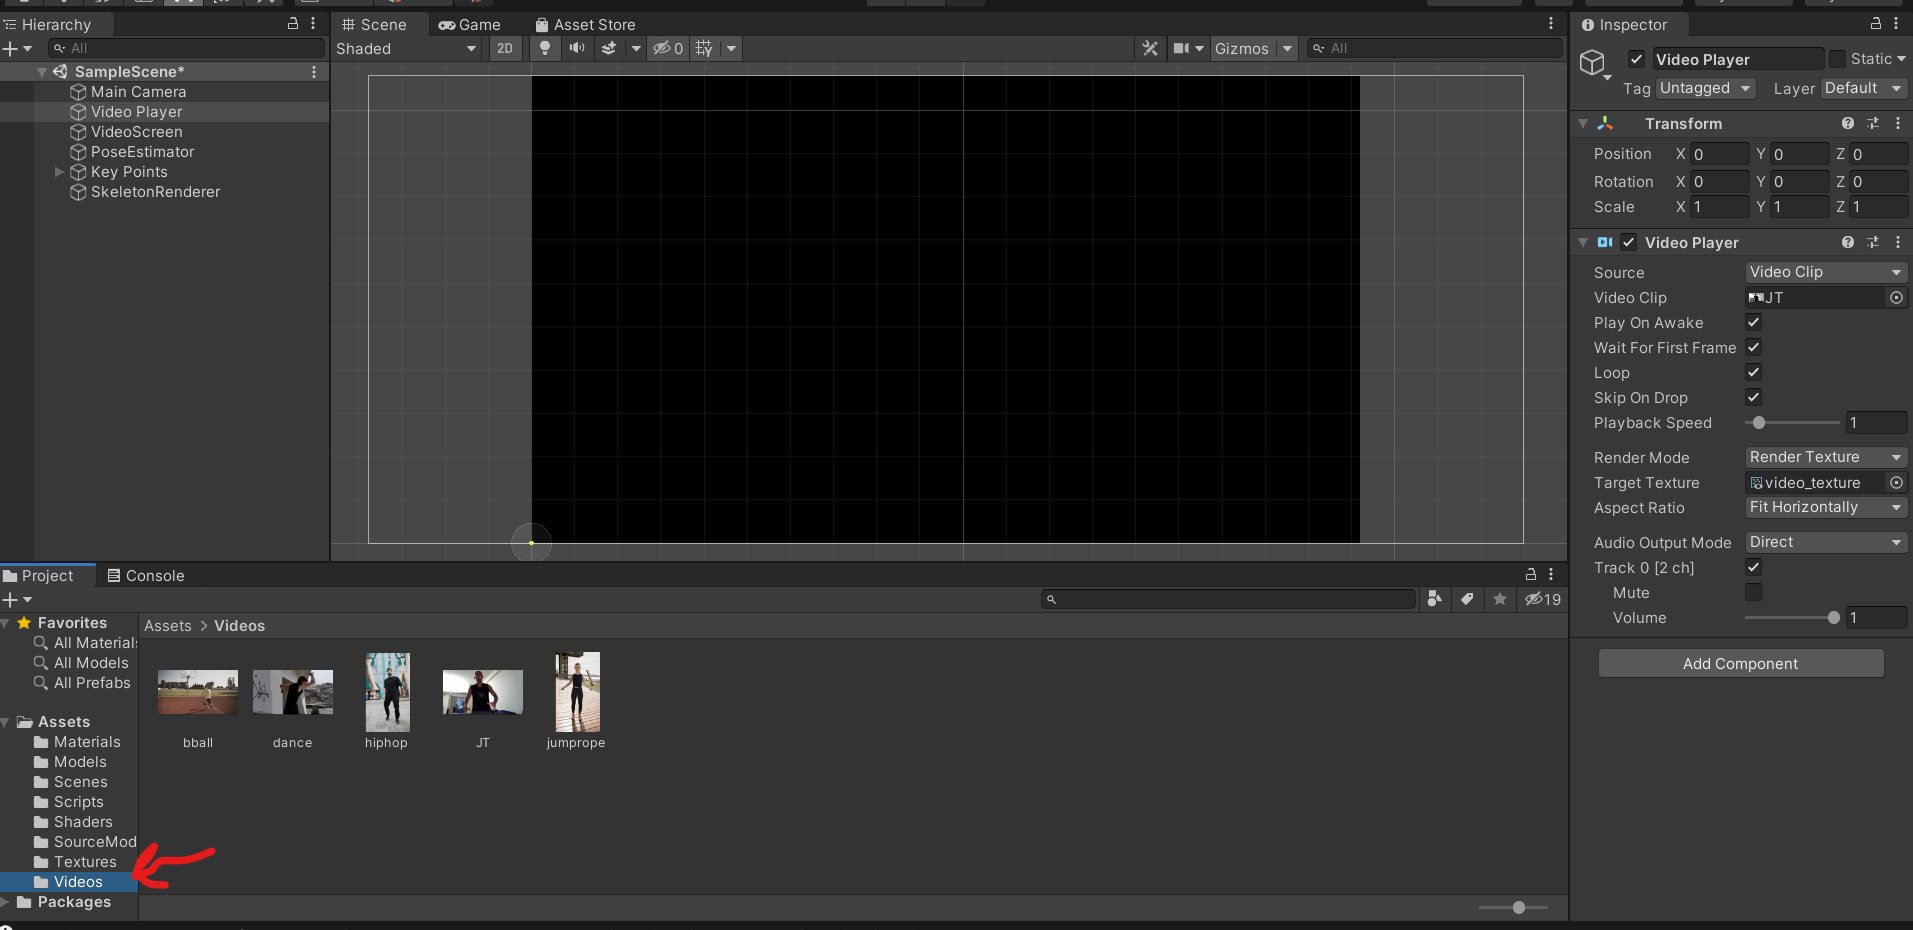
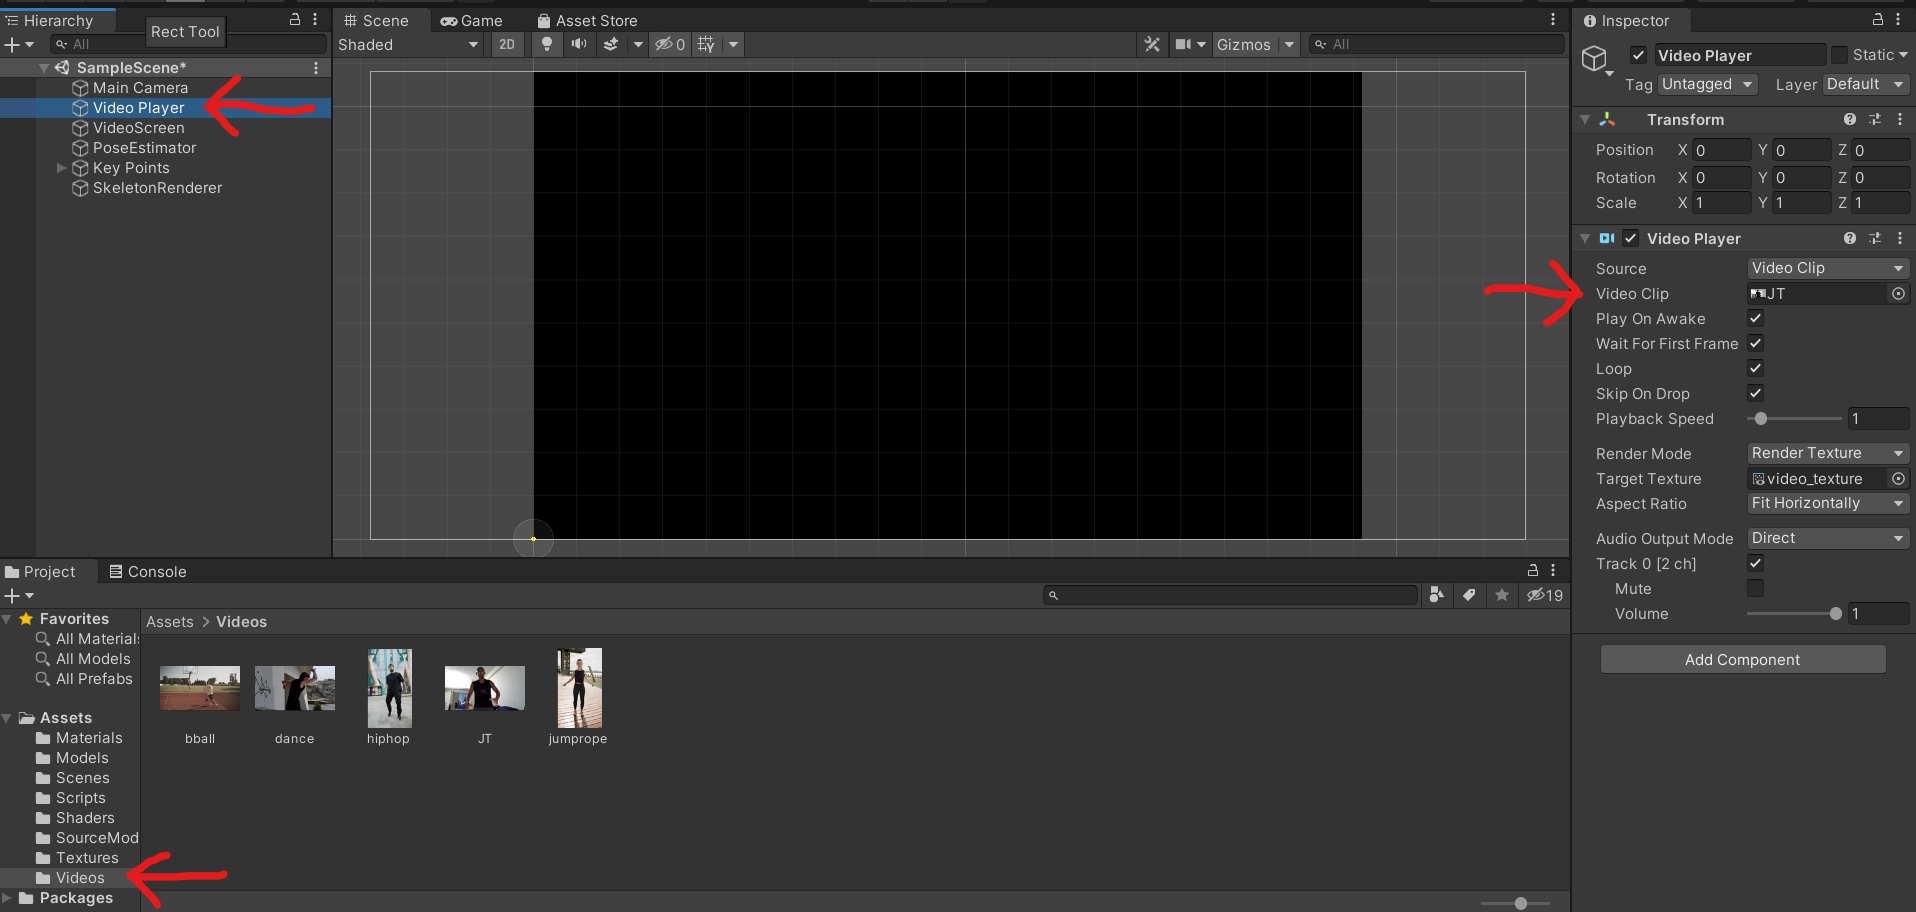
Load Video section in README updated

diff --git a/README.md b/README.md
@@ -41,10 +41,10 @@ The purpose of this project is to perform real-time human pose estimation on vid
 ### Load the video into the player
 * In the “Hierarchy” section in the top left, click on “Video Player” to open it in the “Inspector” section to the right.
 
-![video player](Images\video_player.png)
-
 * In the “Project” section at the bottom, click on the `Assets/Videos` folder.  There are already some video files in there, but you can drag and drop any additional videos you want into there. 
 
 * This project only works on single-person video, so make sure there is only 1 person in the video.
+
+* Drag and drop the video you want into the video player’s “Video Clip” field in the “Inspector” section to the right.
 
 ![assets video](Images\assets_video.png)
